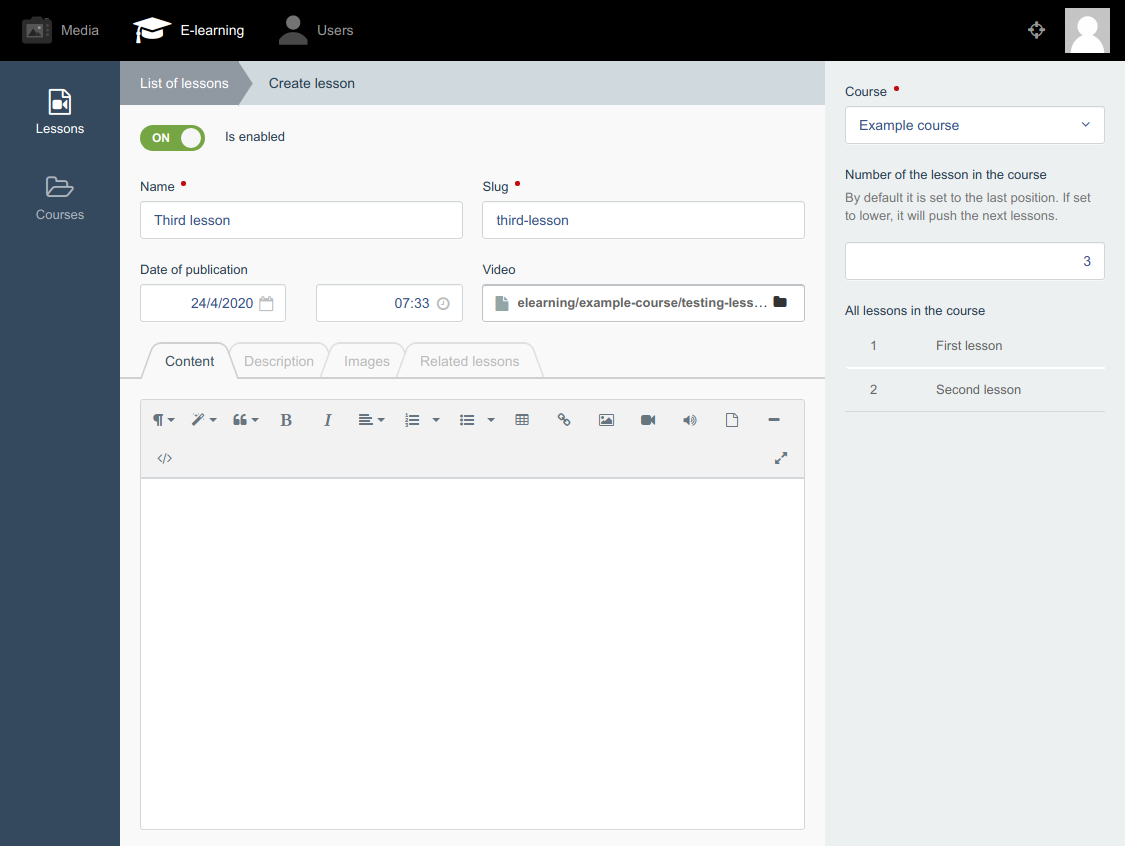
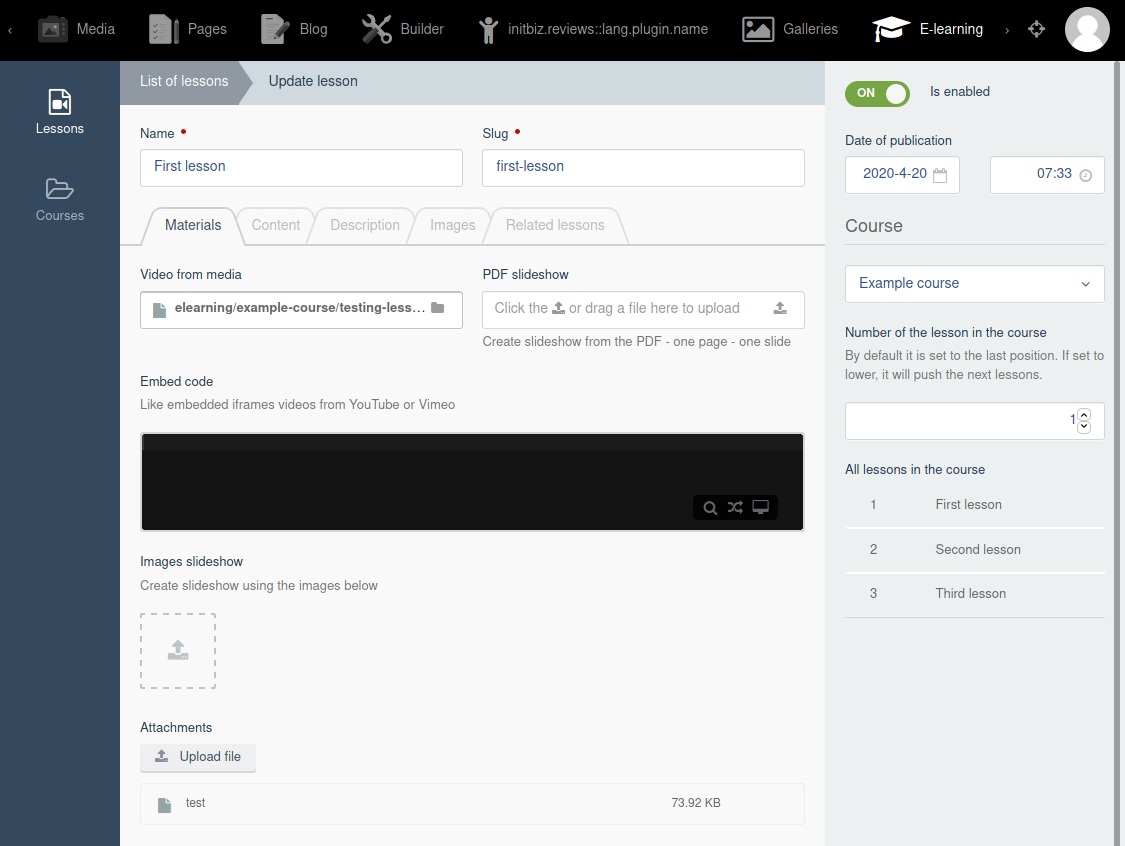
E-learning v.1.1.0

diff --git a/elearning/index.md b/elearning/index.md
@@ -35,13 +35,20 @@ Duration and difficulty are optional parameters that can be used in views to bet
 Courses can be reordered using simple reorder behavior.
 
 ## Lesson
-Lessons are designed to keep the video path from the `mediafinder`.
-
 ![Update lesson](https://raw.githubusercontent.com/initbiz/initbiz.github.io/master/elearning/assets/images/screenshot1.png)
 
-Every lesson can have `number_in_course` parameter set. By default, it is set to the last position of the course after selecting the course. If you decide to make it earlier one add the number
+Every lesson can have a `number_in_course` parameter set. By default, it is set to the last position of the course after selecting the course. If you decide to make it earlier one add the number
 
 > **Right now lessons have to have incremented numbers for the `number_in_course`. `next_lesson` and `previous_lesson` will not work if the numbers are not one after the other**
+
+### Materials
+Lessons can keep a variety of material types.
+
+1. Video from media (which can be protected as described below),
+1. Slideshow created from PDF attachment,
+1. Slideshow created from uploaded images,
+1. Embedded video (like videos from YouTube or Vimeo),
+1. Other attachments
 
 ## Related courses and lessons
 Lessons can have related lessons and courses can have related courses. The idea here is to link lessons and courses logically, not only by the order in the course.
